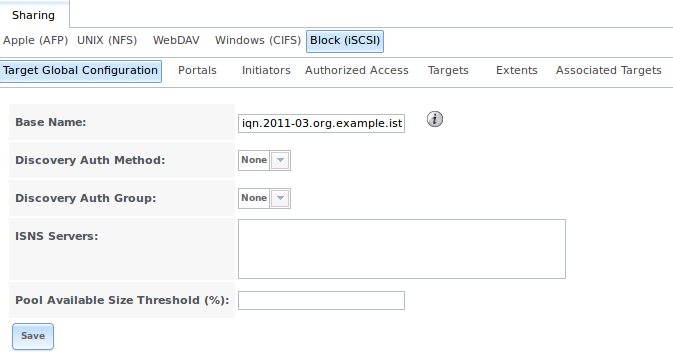
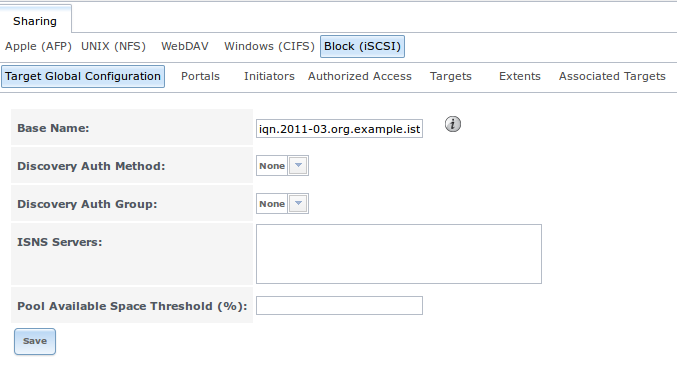
Update some screenshots.

diff --git a/docs/userguide/truenas_sharing.rst b/docs/userguide/truenas_sharing.rst
@@ -1090,11 +1090,11 @@ Target Global Configuration
 
 **Figure 10.5a: iSCSI Target Global Configuration Variables**
 
-|global1.png|
+|global.png|
 
-.. |global1.png| image:: images/global.png
-    :width: 6.0in
-    :height: 3.1in
+.. |global.png| image:: images/global.png
+    :width: 5.7in
+    :height: 3.14in
 
 **Table 10.5a: Target Global Configuration Settings**
 
@@ -1321,7 +1321,7 @@ allowed initiator ID, and an authentication method. Table 10.5e summarizes the s
 
 .. |target1.png| image:: images/target1.png
     :width: 3.7in
-    :height: 3.4in
+    :height: 3.0in
 
 **Table 10.5e: Target Settings**
 
@@ -1352,10 +1352,6 @@ allowed initiator ID, and an authentication method. Table 10.5e summarizes the s
 |                             |                |                                                                                                             |
 +-----------------------------+----------------+-------------------------------------------------------------------------------------------------------------+
 | Authentication Group number | drop-down menu | *None* or integer representing number of existing authorized access                                         |
-|                             |                |                                                                                                             |
-+-----------------------------+----------------+-------------------------------------------------------------------------------------------------------------+
-| Logical Block Size          | drop-down menu | should only be changed to emulate a physical disk's size or to increase the block size to allow for larger  |
-|                             |                | filesystems on an operating system limited by block count                                                   |
 |                             |                |                                                                                                             |
 +-----------------------------+----------------+-------------------------------------------------------------------------------------------------------------+
 

diff --git a/docs/userguide/freenas_sharing.rst b/docs/userguide/freenas_sharing.rst
@@ -1117,8 +1117,8 @@ Target Global Configuration
 |global.png|
 
 .. |global.png| image:: images/global.png
-    :width: 6.0in
-    :height: 3.1in
+    :width: 5.7in
+    :height: 3.14in
 
 **Table 10.5a: Target Global Configuration Settings**
 
@@ -1345,7 +1345,7 @@ allowed initiator ID, and an authentication method. Table 10.5e summarizes the s
 
 .. |target1png| image:: images/target1.png
     :width: 3.7in
-    :height: 3.4in
+    :height: 3.0in
 
 **Table 10.5e: Target Settings**
 
@@ -1376,10 +1376,6 @@ allowed initiator ID, and an authentication method. Table 10.5e summarizes the s
 |                             |                |                                                                                                             |
 +-----------------------------+----------------+-------------------------------------------------------------------------------------------------------------+
 | Authentication Group number | drop-down menu | *None* or integer representing number of existing authorized access                                         |
-|                             |                |                                                                                                             |
-+-----------------------------+----------------+-------------------------------------------------------------------------------------------------------------+
-| Logical Block Size          | drop-down menu | should only be changed to emulate a physical disk's size or to increase the block size to allow for larger  |
-|                             |                | filesystems on an operating system limited by block count                                                   |
 |                             |                |                                                                                                             |
 +-----------------------------+----------------+-------------------------------------------------------------------------------------------------------------+
 

diff --git a/docs/userguide/freenas_intro.rst b/docs/userguide/freenas_intro.rst
@@ -367,8 +367,11 @@ that have occurred since 9.3-RELEASE.
 
 * The "Pool Available Size Threshold" field has been renamed to "Pool Available Space Threshold" in
   :menuselection:`Sharing --> Block (iSCSI) --> Target Global Configuration`.
+  
+* The "Logical Block Size" field has been moved from :menuselection:`Sharing --> Block (iSCSI) --> Targets --> Add Target` to
+  :menuselection:`Sharing --> Block (iSCSI) --> Extents --> Add Extent`
 
-* The "Logical Block Size" field, "Disable Physical Block Size Reporting" checkbox, and "Available Space Threshold" field have been added to
+* The "Disable Physical Block Size Reporting" checkbox and "Available Space Threshold" field have been added to
   :menuselection:`Sharing --> Block (iSCSI) --> Extents --> Add Extent`.
 
 * The "DNS Backend" field has been removed from :menuselection:`Services --> Domain Controller` as BIND is not included in FreeNAS®.
